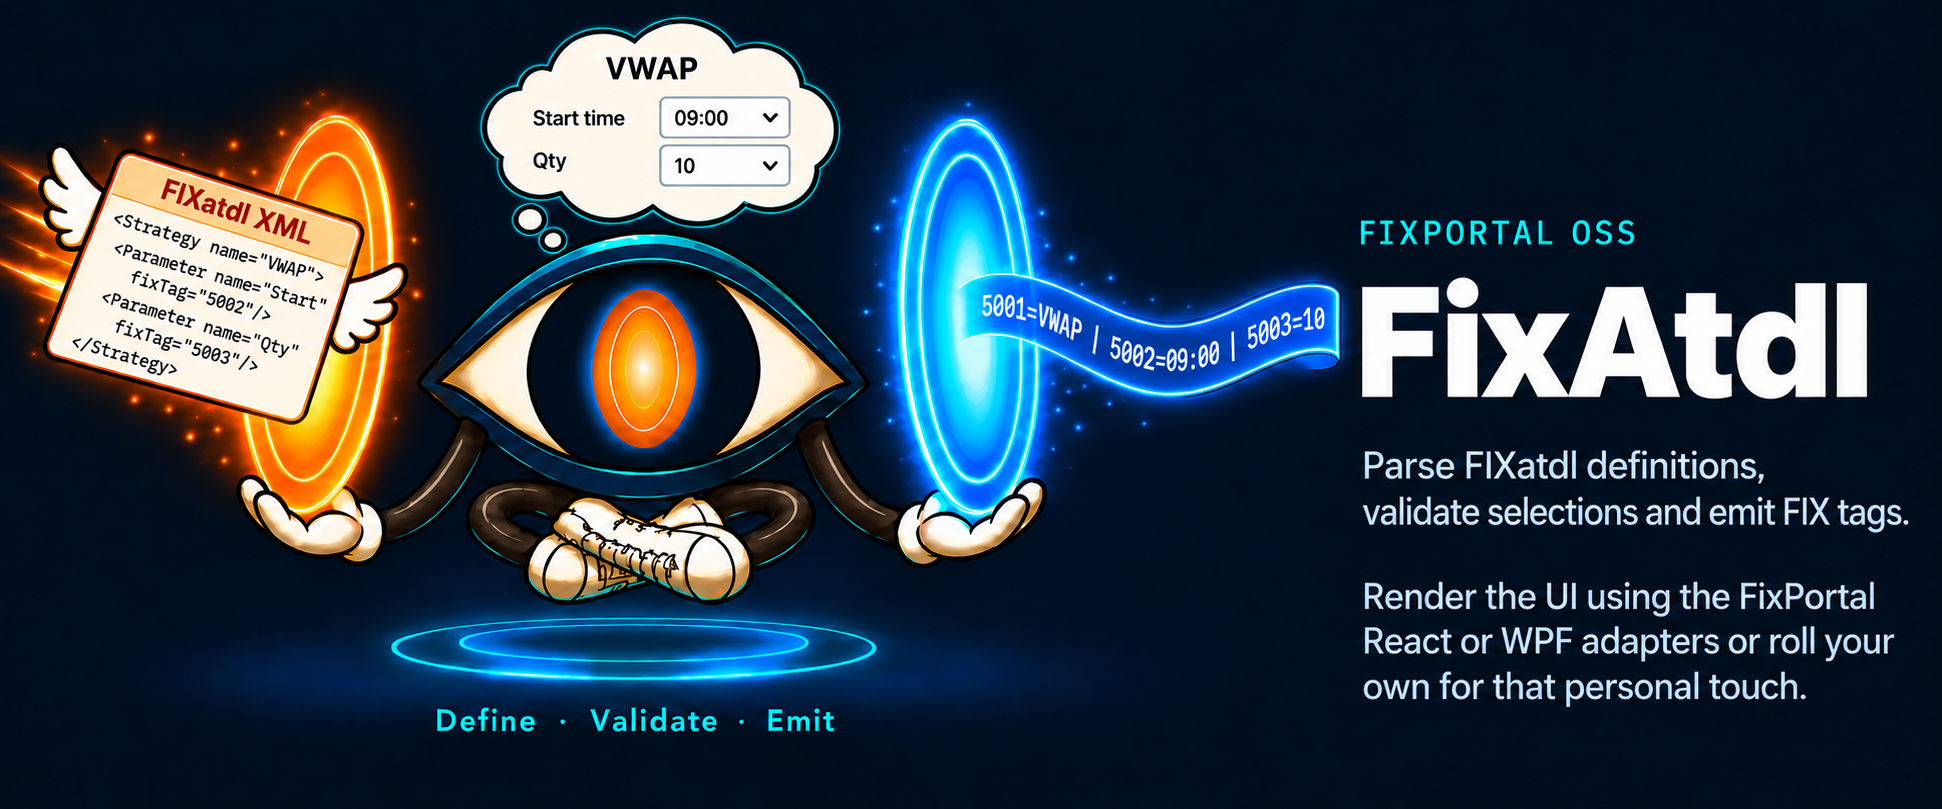
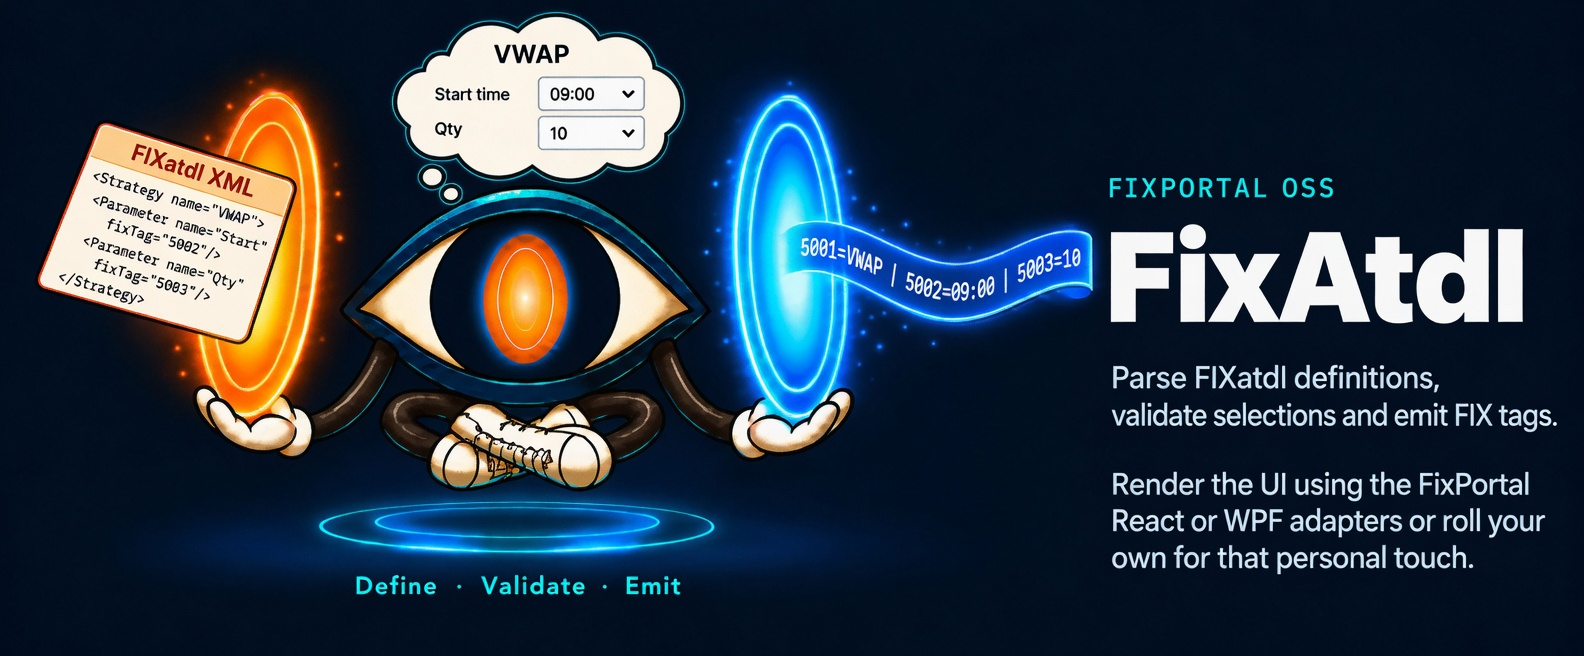
docs: drop wings from the README hero
The XML card on the banner no longer has angel wings. Same
composition, same README URL. Social preview regenerated to match.

diff --git a/CHANGELOG.md b/CHANGELOG.md
@@ -8,6 +8,13 @@ Dates are the release-tag date, in UTC. Entries are consumer-facing: build,
 CI, and test-infrastructure commits are omitted unless they change what a
 consumer sees. No `1.0.2`–`1.0.4` release was tagged.
 
+## [Unreleased]
+
+### Changed
+
+- README hero and GitHub social preview drop the angel wings from the XML
+  card. The markdown image URL is unchanged.
+
 ## [1.1.4] — 2026-09-17
 
 ### Fixed
